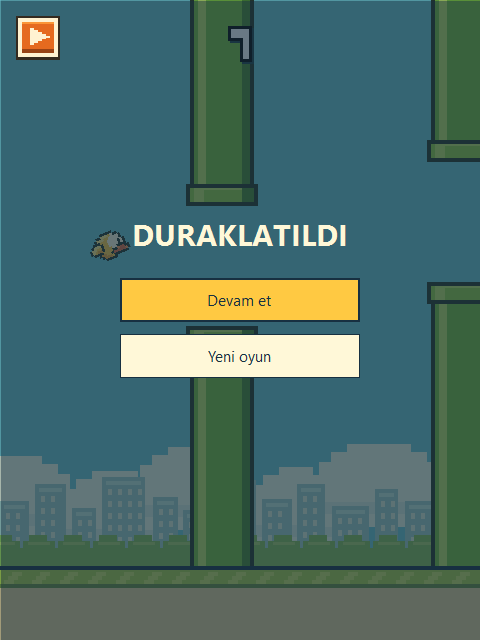
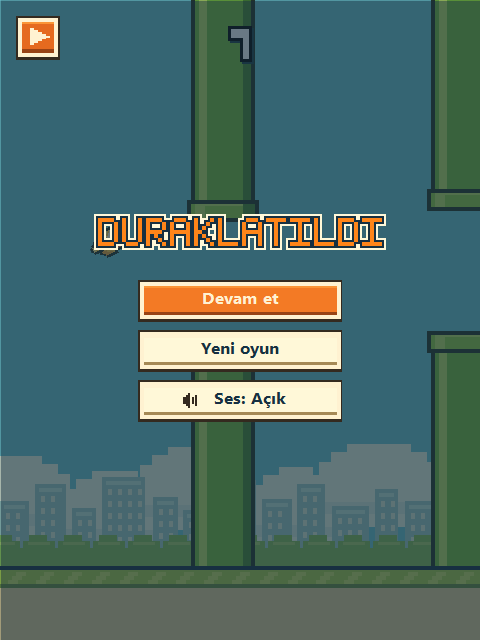
docs: refresh the readme and pause screenshot

diff --git a/README.md b/README.md
@@ -1,4 +1,4 @@
-# Flappy Bird
+# <img src="FlappyBird/Assets/bird-idle.png" width="32" height="28" alt=""> Flappy Bird
 
 Boşluk tuşuyla veya oyun alanına sol tıklayarak zıplayıp boruların arasından geçtiğiniz bir Windows Forms oyunu. Her geçilen boru çifti bir puan kazandırır. Boruya veya zemine çarpınca oyun durur.
 
@@ -21,17 +21,22 @@ dotnet run --project FlappyBird/FlappyBird.csproj
 ## Kontroller ve oyun kuralları
 
 - **Boşluk / Sol tık:** **HAZIR OL** ekranında ilk sıçramayı yapıp turu başlatır. Tur sırasında kuşu yukarı iter. Fareyle oynamak için oyun alanına tıklayın.
-- **Tekrar oyna:** Game Over ekranı tur skorunu ve rekoru gösterir. Yeni tur için turuncu düğmeye veya oyun alanına tıklayın ya da Boşluk tuşuna basın.
-- İki boru çifti sağdan sola ilerler. Boru açıklığı 120 oyun pikselidir. Açıklığın dikey konumu ve boru çiftleri arasındaki yatay mesafe rastgele belirlenir. Ekrandan çıkan çift sağda yeni bir konumda belirir.
+- **Tekrar oyna:** Game Over ekranı tur skorunu ve rekoru gösterir. Kısa bekleme ve çarpışma sesi tamamlandıktan sonra turuncu düğmeye veya oyun alanına tıklayın ya da Boşluk tuşuna basın. Ses kapalıysa bekleme 300 ms sürer.
+- Başlangıçta kuş ortadan normal oyun hizasına kayar. Kuş hizaya ulaştığında ilk boru sağ kenardan görünür. İki boru çifti sağdan sola ilerler. Boru açıklığı 120 oyun pikselidir. Açıklığın dikey konumu ve boru çiftleri arasındaki yatay mesafe rastgele belirlenir. Ekrandan çıkan çift sağda yeni bir konumda belirir.
 - **Esc / Duraklatma düğmesi:** Aktif turu duraklatır veya kaldığı yerden sürdürür. Sol üstteki turuncu düğme fareyle aynı işlevi görür. Menüdeki **Devam et** turu sürdürür, **Yeni oyun** ise skoru sıfırlayıp başlangıç ekranına döner.
+- **Ses: Açık / Kapalı:** Duraklatma menüsünden kanat çırpma, puan ve çarpışma efektlerini bu oturum için açıp kapatır.
 
 Pencere oyun alanının 3:4 oranını koruyarak kenardan veya köşeden yeniden boyutlandırılabilir. Büyüt düğmesi pencereyi monitörün kullanılabilir alanına sığan en büyük boyuta getirir. Düğmeye tekrar basarak önceki boyuta dönebilirsiniz. Minimum oyun alanı 480 × 640 pikseldir.
 
 ## Tasarım ve sınırlamalar
 
-`GameState` hareket, çarpışma, engeller ve skoru yönetir. Form klavye olaylarını alır, zamanlayıcıyla oyun durumunu günceller ve ekrana çizer. Çarpışma sınır dikdörtgenleriyle hesaplanır. Tur skoru her yeni oyunda sıfırlanır. Rekor, tur sonunda yükselirse Windows kullanıcı profilindeki `%LOCALAPPDATA%/FlappyBird/high-score.txt` dosyasına kaydedilir. Kayıt sorunu varsa oyun devam eder ve arayüzde durum gösterilir.
+`GameState` hareket, çarpışma, engeller ve skoru yönetir. Windows Forms klavye ve fare girişini alır, zamanlayıcıyla oyun durumunu günceller. `ArcadeRenderer` oyun sahnesini ve arayüzü çizer. Çarpışma sınır dikdörtgenleriyle hesaplanır. Tur skoru her yeni oyunda sıfırlanır. Rekor, tur sonunda yükselirse Windows kullanıcı profilindeki `%LOCALAPPDATA%/FlappyBird/high-score.txt` dosyasına kaydedilir. Kayıt sorunu varsa oyun devam eder ve arayüzde durum gösterilir.
 
-Üst ortadaki sayaç, geçilen boru çiftlerini siyah konturlu beyaz rakamlarla gösterir. Arka plan, kuş, borular ve zemin piksel sanatına uygun PNG varlıklarıyla çizilir.
+Üst ortadaki sayaç, geçilen boru çiftlerini siyah konturlu beyaz rakamlarla gösterir. Arka plan kodla çizilir. Kuş, borular ve zemin gömülü PNG varlıklarını kullanır. Pencere ve görev çubuğunda kuş simgesi görünür.
+
+`GameAudio` gömülü WAV efektlerini yönetir. Puan ve çarpışma efektleri ayrı oynatma akışları kullandığı için diğer seslerle birlikte duyulabilir.
+
+Ses efektleri, Dong Nguyen ve .GEARS Studios’un Flappy Bird Android v1.3 sürümünden arşivlenen dosyalardan WAV biçimine dönüştürüldü. [Ses arşivi](https://github.com/FlappyBirdRestored/flappybird-restored/tree/restored/apktool_source/assets/sounds)
 
 ## Ekran görüntüleri
 
@@ -45,7 +50,7 @@ Pencere oyun alanının 3:4 oranını koruyarak kenardan veya köşeden yeniden 
 
 **Duraklatma menüsü**
 
-![Devam et ve Yeni oyun seçenekleri](docs/screenshots/pause.png)
+![Piksel başlıklı duraklatma menüsünde Devam et, Yeni oyun ve Ses seçenekleri](docs/screenshots/pause.png)
 
 **Çarpışma sonrası**
 
